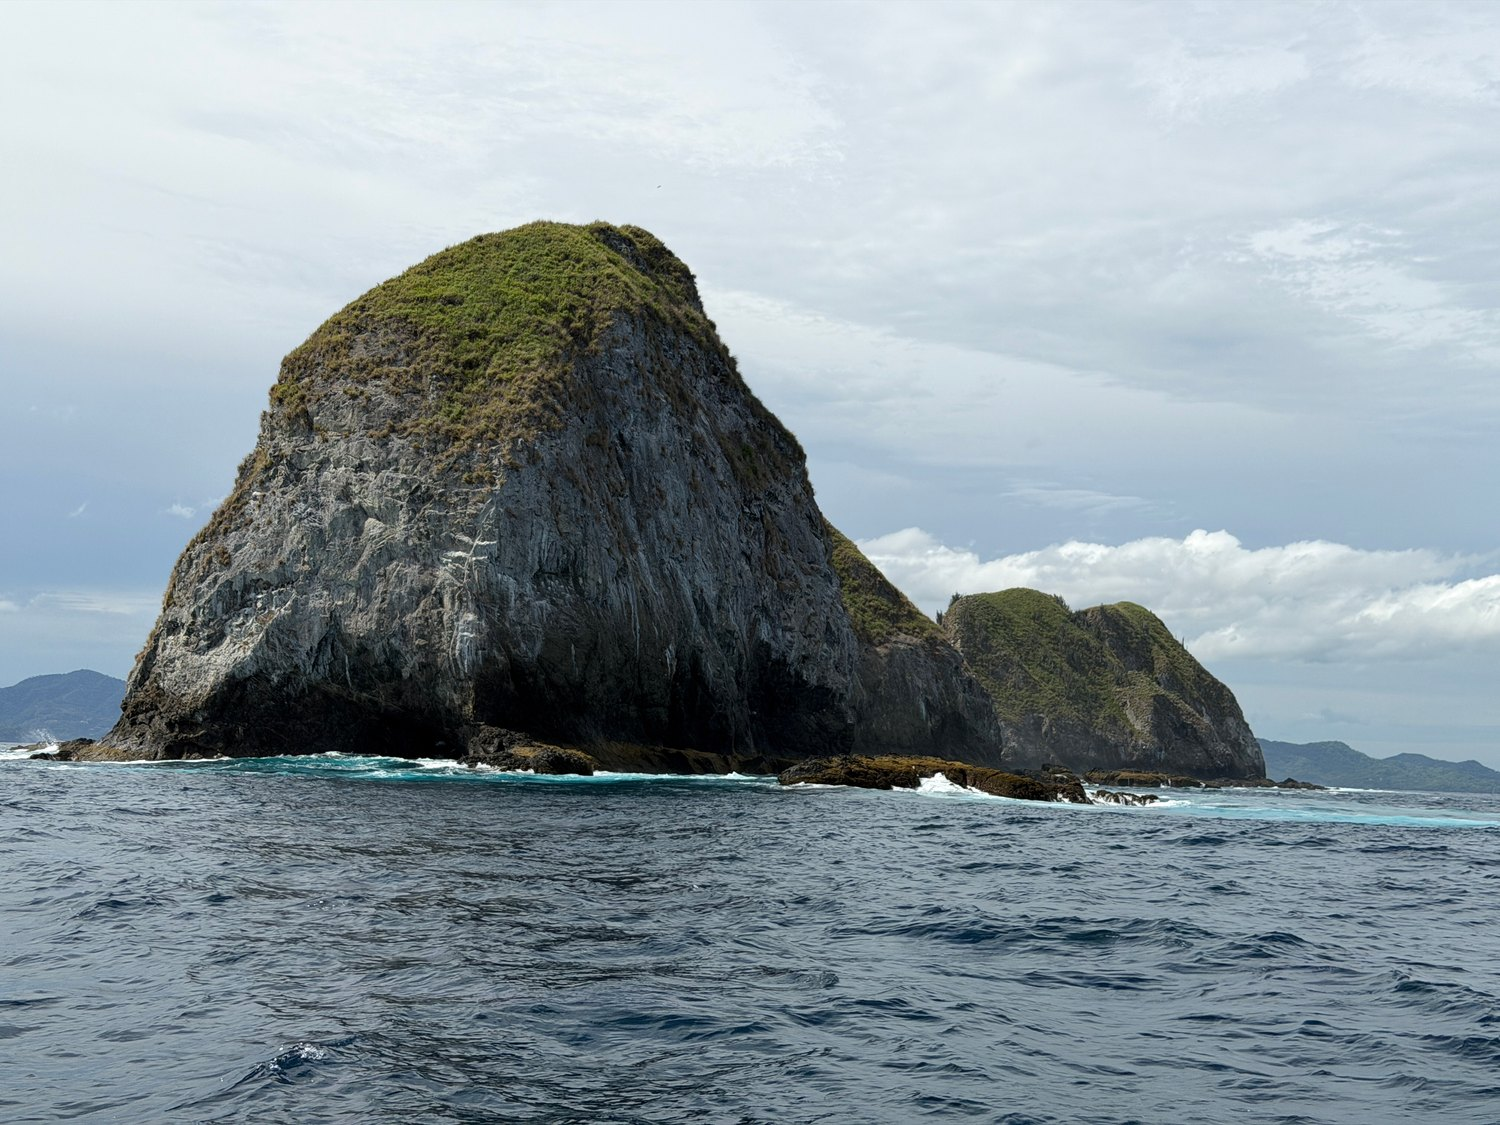
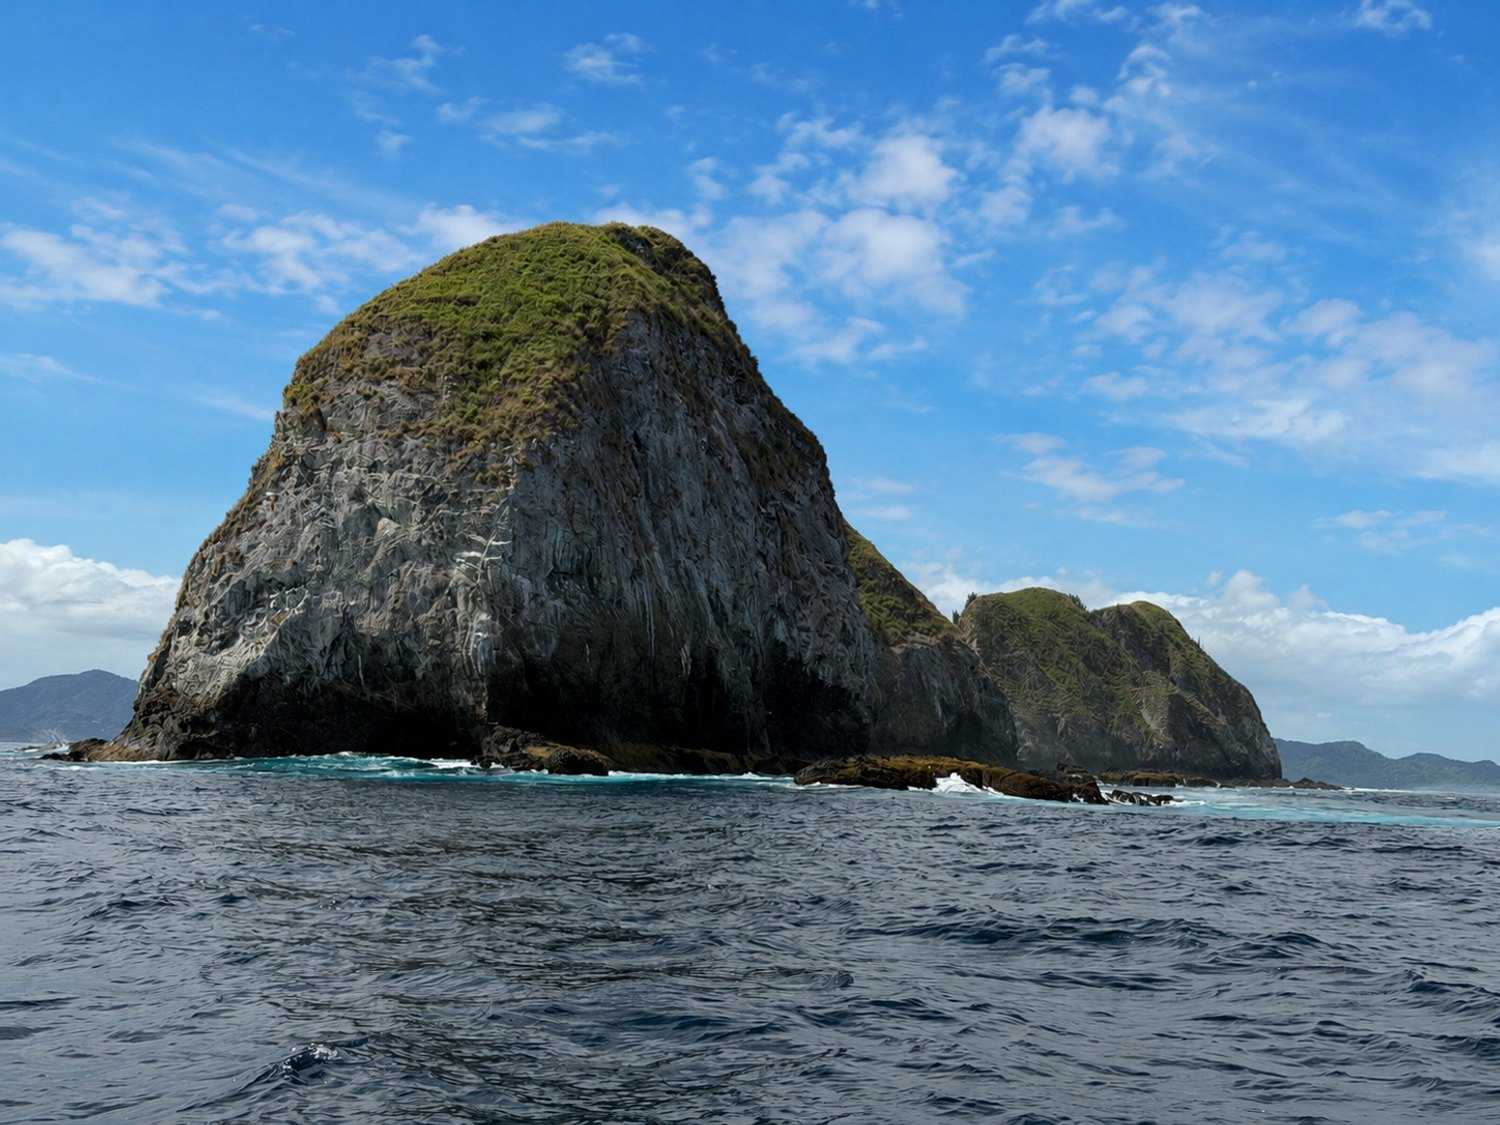
Replace Catalinas photo with sunnier version

diff --git a/fr/index.html b/fr/index.html
@@ -270,7 +270,7 @@
       </div>
     </div>
     <div class="about-media" data-reveal data-delay="1">
-      <picture><source type="image/webp" srcset="../images/catalinas-rock.webp?v=1"><img loading="lazy" src="../images/catalinas-rock.jpg?v=1" style="aspect-ratio:auto" width="1500" height="1125" alt="Formations rocheuses des îles Catalinas au large de Tamarindo, Costa Rica"></picture>
+      <picture><source type="image/webp" srcset="../images/catalinas-rock.webp?v=2"><img loading="lazy" src="../images/catalinas-rock.jpg?v=2" style="aspect-ratio:auto" width="1500" height="1125" alt="Formations rocheuses des îles Catalinas au large de Tamarindo, Costa Rica"></picture>
     </div>
   </div>
 </section>

diff --git a/es/index.html b/es/index.html
@@ -270,7 +270,7 @@
       </div>
     </div>
     <div class="about-media" data-reveal data-delay="1">
-      <picture><source type="image/webp" srcset="../images/catalinas-rock.webp?v=1"><img loading="lazy" src="../images/catalinas-rock.jpg?v=1" style="aspect-ratio:auto" width="1500" height="1125" alt="Formaciones rocosas de las islas Catalinas frente a Tamarindo, Costa Rica"></picture>
+      <picture><source type="image/webp" srcset="../images/catalinas-rock.webp?v=2"><img loading="lazy" src="../images/catalinas-rock.jpg?v=2" style="aspect-ratio:auto" width="1500" height="1125" alt="Formaciones rocosas de las islas Catalinas frente a Tamarindo, Costa Rica"></picture>
     </div>
   </div>
 </section>

diff --git a/index.html b/index.html
@@ -270,7 +270,7 @@
       </div>
     </div>
     <div class="about-media" data-reveal data-delay="1">
-      <picture><source type="image/webp" srcset="images/catalinas-rock.webp?v=1"><img loading="lazy" src="images/catalinas-rock.jpg?v=1" style="aspect-ratio:auto" width="1500" height="1125" alt="Rock formations at the Catalina Islands off Tamarindo, Costa Rica"></picture>
+      <picture><source type="image/webp" srcset="images/catalinas-rock.webp?v=2"><img loading="lazy" src="images/catalinas-rock.jpg?v=2" style="aspect-ratio:auto" width="1500" height="1125" alt="Rock formations at the Catalina Islands off Tamarindo, Costa Rica"></picture>
     </div>
   </div>
 </section>
